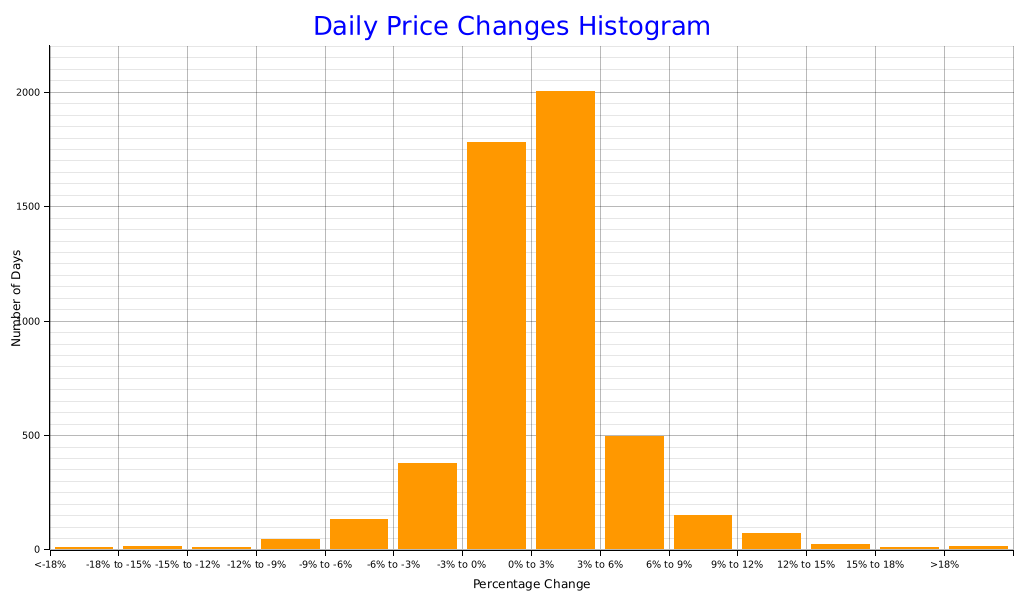
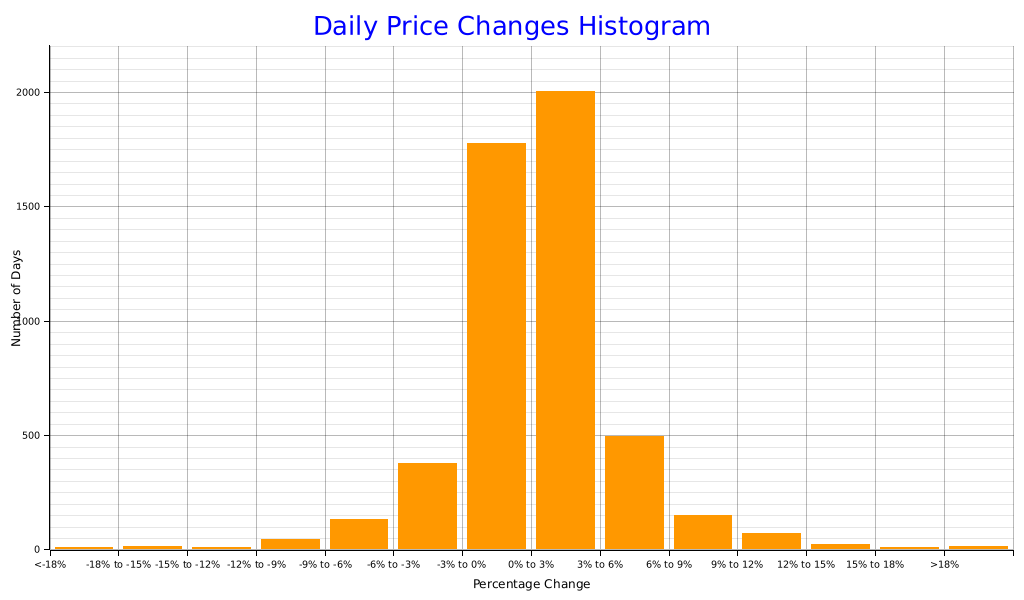
deploy: 95af0be866467ff5f422aab75c9020c8c4274433

diff --git a/index.html b/index.html
@@ -34,7 +34,7 @@
           <td>93,155.01</td>
           <td>87,399.40</td>
           <td></td>
-          <td>120,275,369,984.0</td>
+          <td>146,629,853,184.0</td>
         </tr>
         <tr>
           <td class='yearly-summary-year'>2025</td>
@@ -198,7 +198,7 @@
         </tr>
         <tr>
           <td>0% to 3%</td>
-          <td>2002</td>
+          <td>2003</td>
         </tr>
         <tr>
           <td>3% to 6%</td>
@@ -226,7 +226,7 @@
         </tr>
         <tr class='histogram-footer'>
           <td>Total Days</td>
-          <td>5140</td>
+          <td>5141</td>
         </tr>
       </tbody>
     </table>
@@ -235,7 +235,7 @@
     <br><br>
     <a href='https://github.com/bitcoin-tools/btracker'>Link to the report codebase</a>
     <br><br>
-    This report was last updated at 2026-01-05 05:51:19.833018478 UTC.
+    This report was last updated at 2026-01-05 06:43:12.770077152 UTC.
     <br><br>
     <div class='scrollable-table'>
       <table>
@@ -259,12 +259,24 @@
             <td>91,498.04</td>
             <td>93,155.01</td>
             <td>91,498.04</td>
-            <td>92,488.44</td>
-            <td class='wma-column'>56,975.85</td>
-            <td>38.62 (0.06 %)</td>
-            <td>54,068.46 (140.7 %)</td>
+            <td>92,293.25</td>
+            <td class='wma-column'>57,013.82</td>
+            <td>38.72 (0.06 %)</td>
+            <td>54,231.21 (142.4 %)</td>
             <td>1,656.96 (1.7 %)</td>
-            <td>1,885.25 (2.0 %)</td>
+            <td>879.76 (0.9 %)</td>
+          </tr>
+          <tr>
+            <td>2026-01-04</td>
+            <td>90,603.00</td>
+            <td>91,712.58</td>
+            <td>90,595.10</td>
+            <td>91,413.49</td>
+            <td class='wma-column'>56,975.10</td>
+            <td>37.87 (0.06 %)</td>
+            <td>52,993.50 (137.9 %)</td>
+            <td>1,117.48 (1.2 %)</td>
+            <td>810.30 (0.8 %)</td>
           </tr>
           <tr>
             <td>2026-01-03</td>
